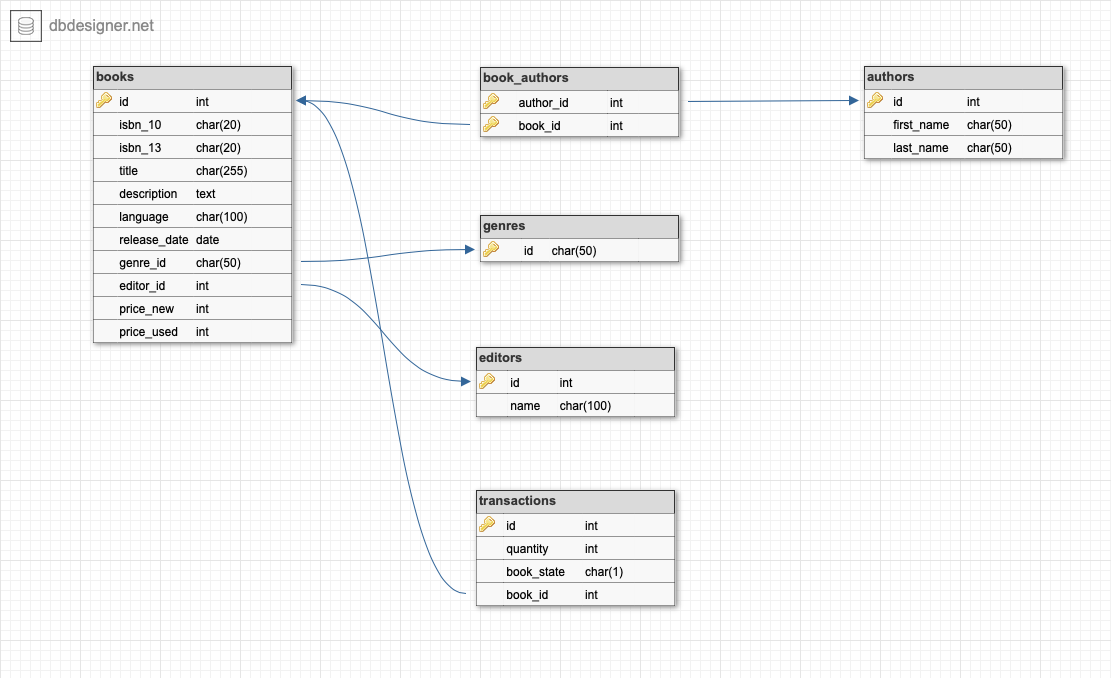
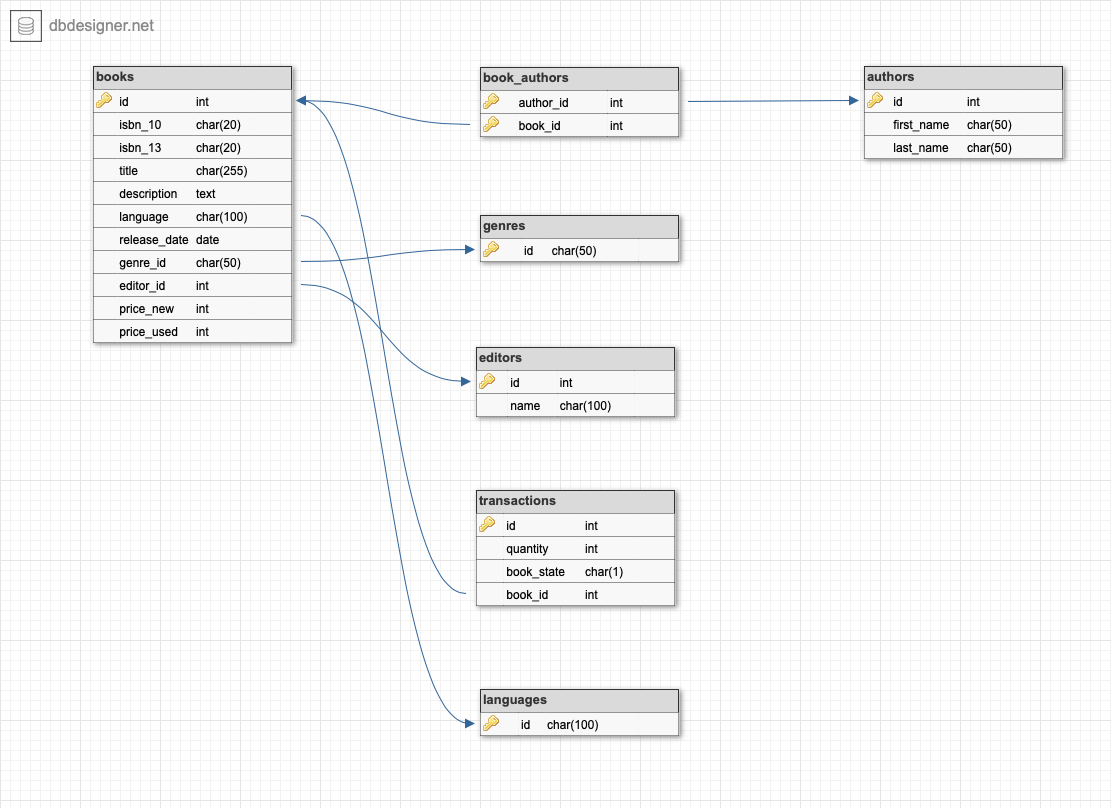
Update database design (and models in Django)

diff --git a/LibraryInventory/book/models/books.py b/LibraryInventory/book/models/books.py
@@ -2,6 +2,7 @@ from django.db import models
 from book.models.editors import Editor
 from book.models.genres import Genre
 from book.models.authors import Author
+from book.models.languages import Language
 
 
 # Create your models here.
@@ -13,10 +14,10 @@ class Book(models.Model):
     isbn13 = models.CharField(max_length=20, null=True)
     title = models.CharField(max_length=255)
     description = models.TextField(null=True)
-    language = models.CharField(max_length=100)
+    language = models.ForeignKey(Language, on_delete=models.PROTECT)
     release_date = models.DateTimeField()
-    genre_id = models.ForeignKey(Genre, on_delete=models.PROTECT)
-    editor_id = models.ForeignKey(Editor, on_delete=models.PROTECT)
+    genre = models.ForeignKey(Genre, on_delete=models.PROTECT)
+    editor = models.ForeignKey(Editor, on_delete=models.PROTECT)
     price_new = models.IntegerField()
     price_used = models.IntegerField(null=True)
     authors = models.ManyToManyField(Author)

diff --git a/LibraryInventory/book/migrations/0004_auto_20190304_0028.py b/LibraryInventory/book/migrations/0004_auto_20190304_0028.py
@@ -1,0 +1,37 @@
+# Generated by Django 2.1.7 on 2019-03-04 05:28
+
+from django.db import migrations
+
+
+class Migration(migrations.Migration):
+
+    dependencies = [
+        ('book', '0003_auto_20190304_0024'),
+    ]
+
+    operations = [
+        migrations.RenameField(
+            model_name='book',
+            old_name='editor_id',
+            new_name='editor',
+        ),
+        migrations.RenameField(
+            model_name='book',
+            old_name='genre_id',
+            new_name='genre',
+        ),
+        migrations.RenameField(
+            model_name='book',
+            old_name='language_id',
+            new_name='language',
+        ),
+        migrations.RenameField(
+            model_name='transaction',
+            old_name='book_id',
+            new_name='book',
+        ),
+        migrations.AlterModelTable(
+            name='language',
+            table='languages',
+        ),
+    ]

diff --git a/LibraryInventory/book/migrations/0003_auto_20190304_0024.py b/LibraryInventory/book/migrations/0003_auto_20190304_0024.py
@@ -1,0 +1,30 @@
+# Generated by Django 2.1.7 on 2019-03-04 05:24
+
+from django.db import migrations, models
+import django.db.models.deletion
+
+
+class Migration(migrations.Migration):
+
+    dependencies = [
+        ('book', '0002_auto_20190304_0012'),
+    ]
+
+    operations = [
+        migrations.CreateModel(
+            name='Language',
+            fields=[
+                ('id', models.CharField(max_length=100, primary_key=True, serialize=False)),
+            ],
+        ),
+        migrations.RemoveField(
+            model_name='book',
+            name='language',
+        ),
+        migrations.AddField(
+            model_name='book',
+            name='language_id',
+            field=models.ForeignKey(default='English', on_delete=django.db.models.deletion.PROTECT, to='book.Language'),
+            preserve_default=False,
+        ),
+    ]

diff --git a/LibraryInventory/book/models/transactions.py b/LibraryInventory/book/models/transactions.py
@@ -11,7 +11,7 @@ class Transaction(models.Model):
 
     quantity = models.IntegerField()
     book_state = models.CharField(max_length=1, choices=BOOK_STATE_CHOICES)
-    book_id = models.ForeignKey(Book, on_delete=models.CASCADE)
+    book = models.ForeignKey(Book, on_delete=models.CASCADE)
 
     class Meta:
         db_table = 'transactions'

diff --git a/LibraryInventory/book/models/__init__.py b/LibraryInventory/book/models/__init__.py
@@ -3,3 +3,4 @@ from book.models.genres import Genre
 from book.models.editors import Editor
 from book.models.authors import Author
 from book.models.transactions import Transaction
+from book.models.languages import Language

diff --git a/LibraryInventory/book/models/languages.py b/LibraryInventory/book/models/languages.py
@@ -1,0 +1,8 @@
+from django.db import models
+
+
+class Language(models.Model):
+    id = models.CharField(primary_key=True, max_length=100)
+
+    class Meta:
+        db_table = 'languages'
